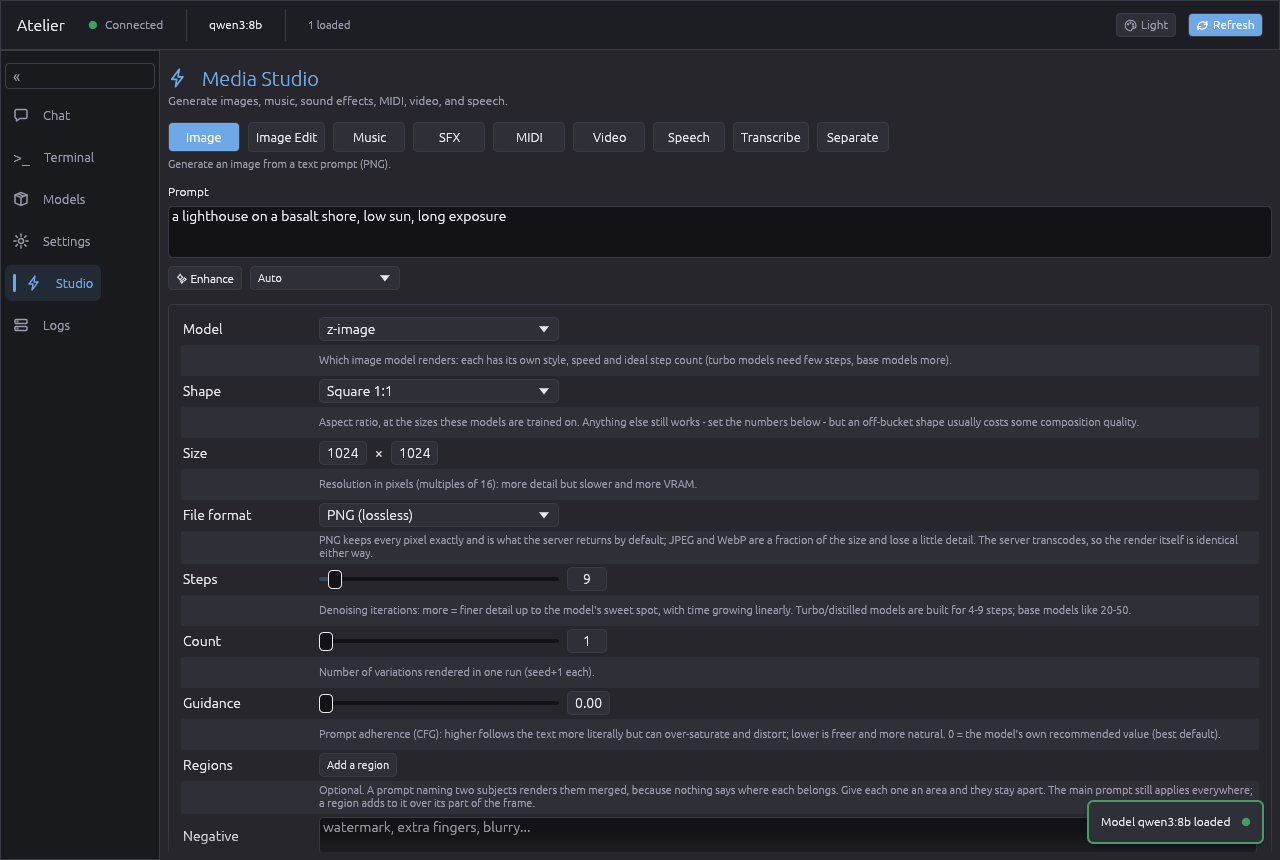
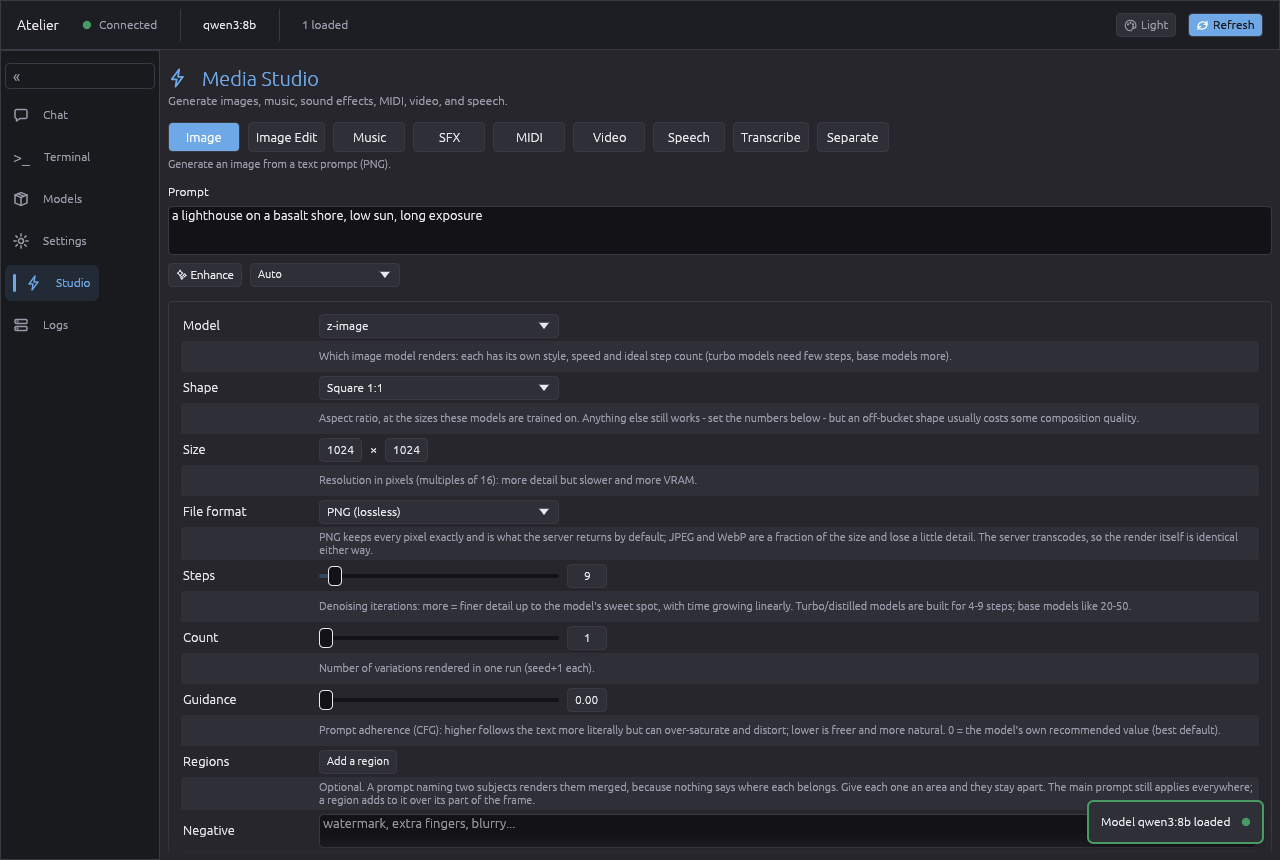
The type scale
Five text styles on one scale (label 10, value 12, section 11, title 14,
body 13, monospace 12) live in theme::text with a builder each, and
egui's named styles are set from the same table in style_for. The
chrome, the sidebar and the section header read the scale; the font
setup in app.rs is gone.

diff --git a/src/ui/layout.rs b/src/ui/layout.rs
@@ -12,13 +12,16 @@
 //! ```
 
 use eframe::egui::{self, Color32, RichText, CornerRadius, Stroke, Vec2};
-use crate::theme;
+use crate::theme::{self, text};
 use crate::state::Section;
 use crate::icons::Icon;
 
 /// Sidebar width (icon + label when expanded)
 const SIDEBAR_WIDTH: f32 = 56.0;
 const SIDEBAR_WIDTH_EXPANDED: f32 = 160.0;
+
+/// Point size of a navigation icon or glyph.
+const NAV_ICON_PT: f32 = 16.0;
 
 /// Sidebar navigation item. `icon` is an Icon variant rather than an emoji
 /// character. Terminal keeps a text glyph (">_"), which is a command-prompt
@@ -103,7 +106,7 @@ pub fn top_bar(
 
                 // App title. It named the server before, which is the one thing this
                 // window is not: it holds no model and can point at any backend.
-                ui.label(RichText::new("Atelier").size(16.0).strong().color(text_primary));
+                ui.label(text::title("Atelier"));
                 ui.add_space(16.0);
 
                 // Server status dot + label. The short_status text
@@ -119,7 +122,7 @@ pub fn top_bar(
                     .horizontal(|ui| {
                         let (dot_rect, _) = ui.allocate_exact_size(Vec2::new(8.0, 8.0), egui::Sense::hover());
                         ui.painter().circle_filled(dot_rect.center(), 4.0, status_color);
-                        ui.label(RichText::new(short_status).size(12.0).color(text_secondary));
+                        ui.label(text::note(short_status));
                     })
                     .response;
                 group_resp.on_hover_text(connection_detail);
@@ -145,8 +148,7 @@ pub fn top_bar(
                     let lbl = ui.add(
                         egui::Label::new(
                             RichText::new(display_name.as_ref())
-                                .size(12.0)
-                                .strong()
+                                .size(text::VALUE_PT).strong()
                                 .color(text_primary),
                         )
                         .sense(egui::Sense::hover()),
@@ -155,7 +157,7 @@ pub fn top_bar(
                         lbl.on_hover_text(model);
                     }
                 } else {
-                    ui.label(RichText::new("No model selected").size(12.0).color(text_secondary));
+                    ui.label(text::note("No model selected"));
                 }
 
                 ui.add_space(12.0);
@@ -164,7 +166,7 @@ pub fn top_bar(
 
                 // Metrics
                 if !metrics_text.is_empty() {
-                    ui.label(RichText::new(metrics_text).size(11.0).color(text_secondary));
+                    ui.label(text::note(metrics_text));
                 }
 
                 // Right side
@@ -182,7 +184,7 @@ pub fn top_bar(
                     if refreshing {
                         let btn = egui::Button::image_and_text(
                             Icon::Refresh.image(13.0, Color32::WHITE),
-                            RichText::new("Refresh").size(12.0).color(Color32::WHITE),
+                            text::value("Refresh").color(theme::on_accent()),
                         )
                         .fill(theme::accent())
                         .corner_radius(CornerRadius::same(4));
@@ -193,7 +195,7 @@ pub fn top_bar(
                     } else {
                         let btn = egui::Button::image_and_text(
                             Icon::Refresh.image(13.0, Color32::WHITE),
-                            RichText::new("Refresh").size(12.0).color(Color32::WHITE),
+                            text::value("Refresh").color(theme::on_accent()),
                         )
                         .fill(theme::accent())
                         .corner_radius(CornerRadius::same(4));
@@ -215,7 +217,7 @@ pub fn top_bar(
                     };
                     let theme_btn = egui::Button::image_and_text(
                         Icon::Palette.image(13.0, text_secondary),
-                        RichText::new(theme_label).size(12.0).color(text_secondary),
+                        text::note(theme_label),
                     )
                     .fill(theme::raised())
                     .stroke(Stroke::new(1.0, bar_border))
@@ -270,7 +272,7 @@ pub fn sidebar(
             } else {
                 ("\u{00BB}", "Expand sidebar to show labels")
             };
-            let toggle = egui::Button::new(RichText::new(glyph).size(16.0).color(toggle_color))
+            let toggle = egui::Button::new(RichText::new(glyph).size(NAV_ICON_PT).color(toggle_color))
                 .fill(Color32::TRANSPARENT)
                 .min_size(Vec2::new(ui.available_width(), 24.0));
             if ui.add(toggle).on_hover_text(tip).clicked() {
@@ -331,12 +333,12 @@ fn render_nav_item(
             // fallback ("Terminal" → ">_") keeps the same RichText
             // path it had before the conversion.
             match icon {
-                NavIcon::Svg(ic)   => { ic.show(ui, 16.0, text_color); }
-                NavIcon::Text(s)   => { ui.label(RichText::new(*s).size(16.0).color(text_color)); }
+                NavIcon::Svg(ic)   => { ic.show(ui, NAV_ICON_PT, text_color); }
+                NavIcon::Text(s)   => { ui.label(RichText::new(*s).size(NAV_ICON_PT).color(text_color)); }
             }
             if sidebar_expanded {
                 ui.add_space(6.0);
-                ui.label(RichText::new(label).size(13.0).color(text_color));
+                ui.label(text::value(label).color(text_color));
             }
         });
     });

diff --git a/src/theme.rs b/src/theme.rs
@@ -263,8 +263,10 @@ pub fn visuals_for(p: &Palette) -> egui::Visuals {
     v
 }
 
-/// The spacing of one skin: an 8 px grid, 24 px controls, one form width.
+/// The spacing and the type scale of one skin: an 8 px grid, 24 px controls,
+/// one form width, five text styles.
 pub fn style_for(_p: &Palette, style: &mut egui::Style) {
+    style.text_styles = text::styles();
     style.spacing.item_spacing = egui::vec2(GAP_WIDGETS, GAP_LABEL);
     style.spacing.button_padding = egui::vec2(GAP_WIDGETS, GAP_LABEL);
     style.spacing.interact_size.y = CONTROL_H;
@@ -273,6 +275,72 @@ pub fn style_for(_p: &Palette, style: &mut egui::Style) {
     style.spacing.slider_rail_height = SLIDER_RAIL_H;
     style.spacing.window_margin = egui::Margin::same(PANEL_PADDING);
     style.spacing.menu_margin = egui::Margin::same(PANEL_PADDING);
+}
+
+/// The type scale. Five sizes and a weight each; the colour is the palette's.
+// The whole scale is read once the views are on it (src/ui/widgets.rs, the view modules).
+#[allow(dead_code)]
+pub mod text {
+    use super::palette;
+    use eframe::egui::{FontFamily, FontId, RichText, TextStyle};
+    use std::collections::BTreeMap;
+
+    /// A label over or beside a control: capitals, dim. Callers pass capitals.
+    pub const LABEL_PT: f32 = 10.0;
+    /// A value, a button, a name: the reading size of a control.
+    pub const VALUE_PT: f32 = 12.0;
+    /// A section title: capitals in the accent.
+    pub const SECTION_PT: f32 = 11.0;
+    /// Body prose.
+    pub const BODY_PT: f32 = 13.0;
+    /// The title in a chrome row.
+    pub const TITLE_PT: f32 = 14.0;
+    /// Monospace readouts.
+    pub const MONO_PT: f32 = 12.0;
+    /// A dim monospace readout in a chrome tail.
+    pub const READOUT_PT: f32 = 10.0;
+    /// Prose under a control, and its line pitch.
+    pub const CAPTION_PT: f32 = 8.5;
+    pub const CAPTION_PITCH: f32 = 10.5;
+    /// Tracked capitals over a hairline, and their letter spacing.
+    pub const HEADING_PT: f32 = 9.5;
+    pub const TRACKING: f32 = 1.5;
+    /// The icon of an empty state.
+    pub const EMPTY_STATE_ICON_PT: f32 = 32.0;
+
+    /// egui's named styles on the same scale.
+    pub fn styles() -> BTreeMap<TextStyle, FontId> {
+        [
+            (TextStyle::Body, FontId::new(BODY_PT, FontFamily::Proportional)),
+            (TextStyle::Button, FontId::new(VALUE_PT, FontFamily::Proportional)),
+            (TextStyle::Heading, FontId::new(TITLE_PT, FontFamily::Proportional)),
+            (TextStyle::Monospace, FontId::new(MONO_PT, FontFamily::Monospace)),
+            (TextStyle::Small, FontId::new(LABEL_PT, FontFamily::Proportional)),
+        ]
+        .into()
+    }
+
+    pub fn label(caps: &str) -> RichText {
+        RichText::new(caps).size(LABEL_PT).color(palette().ink_dim)
+    }
+    pub fn value(s: &str) -> RichText {
+        RichText::new(s).size(VALUE_PT).strong().color(palette().ink)
+    }
+    pub fn section(caps: &str) -> RichText {
+        RichText::new(caps).size(SECTION_PT).strong().color(palette().accent)
+    }
+    pub fn title(s: &str) -> RichText {
+        RichText::new(s).size(TITLE_PT).strong().color(palette().ink)
+    }
+    pub fn note(s: &str) -> RichText {
+        RichText::new(s).size(VALUE_PT).color(palette().ink_dim)
+    }
+    pub fn mono(s: &str) -> RichText {
+        RichText::new(s).monospace().size(MONO_PT).color(palette().ink)
+    }
+    pub fn readout(s: &str) -> RichText {
+        RichText::new(s).monospace().size(READOUT_PT).color(palette().ink_dim)
+    }
 }
 
 #[cfg(test)]
@@ -477,6 +545,7 @@ mod tests {
         assert_eq!(ctx.global_style().visuals.panel_fill, LIGHT.panel);
         assert_eq!(ctx.global_style().visuals.extreme_bg_color, LIGHT.well);
         assert_eq!(ctx.global_style().spacing.interact_size.y, CONTROL_H);
+        assert_eq!(ctx.global_style().text_styles[&egui::TextStyle::Body].size, text::BODY_PT);
         apply(&ctx, true);
         assert!(is_dark());
         assert_eq!(ctx.global_style().visuals.panel_fill, DARK.panel);

diff --git a/src/app.rs b/src/app.rs
@@ -622,7 +622,6 @@ impl LLMGuiApp {
         theme::apply(&cc.egui_ctx, config.dark_theme);
 
         // Configure fonts for Unicode emoji and icons support
-        configure_fonts(&cc.egui_ctx);
 
         // Image loaders are installed in main.rs before LLMGuiApp::new
         // is called — no need to install them again here. Removing the
@@ -3673,28 +3672,6 @@ fn insert_option_field(
 }
 
 /// Configure fonts to support Unicode emoji and icons
-fn configure_fonts(ctx: &egui::Context) {
-    // egui's default fonts already support Unicode emoji and icons
-    // This function is here for future customization if needed
-    // The default font settings in egui handle emoji rendering well enough
-    // for our use case (terminal/status icons)
-
-    // Configure text styles for consistent sizing
-    let mut style = (*ctx.global_style()).clone();
-
-    // Ensure text is readable with proper sizing
-    style.text_styles = [
-        (egui::TextStyle::Body, egui::FontId::proportional(14.0)),
-        (egui::TextStyle::Button, egui::FontId::proportional(14.0)),
-        (egui::TextStyle::Heading, egui::FontId::proportional(18.0)),
-        (egui::TextStyle::Monospace, egui::FontId::monospace(12.0)),
-        (egui::TextStyle::Small, egui::FontId::proportional(12.0)),
-    ]
-    .into();
-
-    ctx.set_global_style(style);
-}
-
 #[cfg(test)]
 mod tests {
     use super::*;

diff --git a/src/ui/components/panel.rs b/src/ui/components/panel.rs
@@ -14,7 +14,7 @@
 //!     .show(ui, 0);
 //! ```
 
-use eframe::egui::{self, Color32, Pos2, Rect, RichText, Sense, Stroke, Ui, Vec2};
+use eframe::egui::{self, Color32, Pos2, Rect, Sense, Stroke, Ui, Vec2};
 use crate::theme;
 
 // ── Spacing constants ──────────────────────────────────────────────
@@ -230,7 +230,7 @@ pub fn section_header(ui: &mut Ui, label: &str, accent: Color32) {
     let response = ui.horizontal(|ui| {
         let (bar_rect, _) = ui.allocate_exact_size(Vec2::new(4.0, 18.0), Sense::hover());
         ui.painter().rect_filled(bar_rect, 2u8, accent);
-        ui.label(RichText::new(label).color(accent).strong().size(12.0));
+        ui.label(theme::text::section(label).color(accent));
     });
     // Subtle tinted background behind header row
     let header_rect = response.response.rect;
